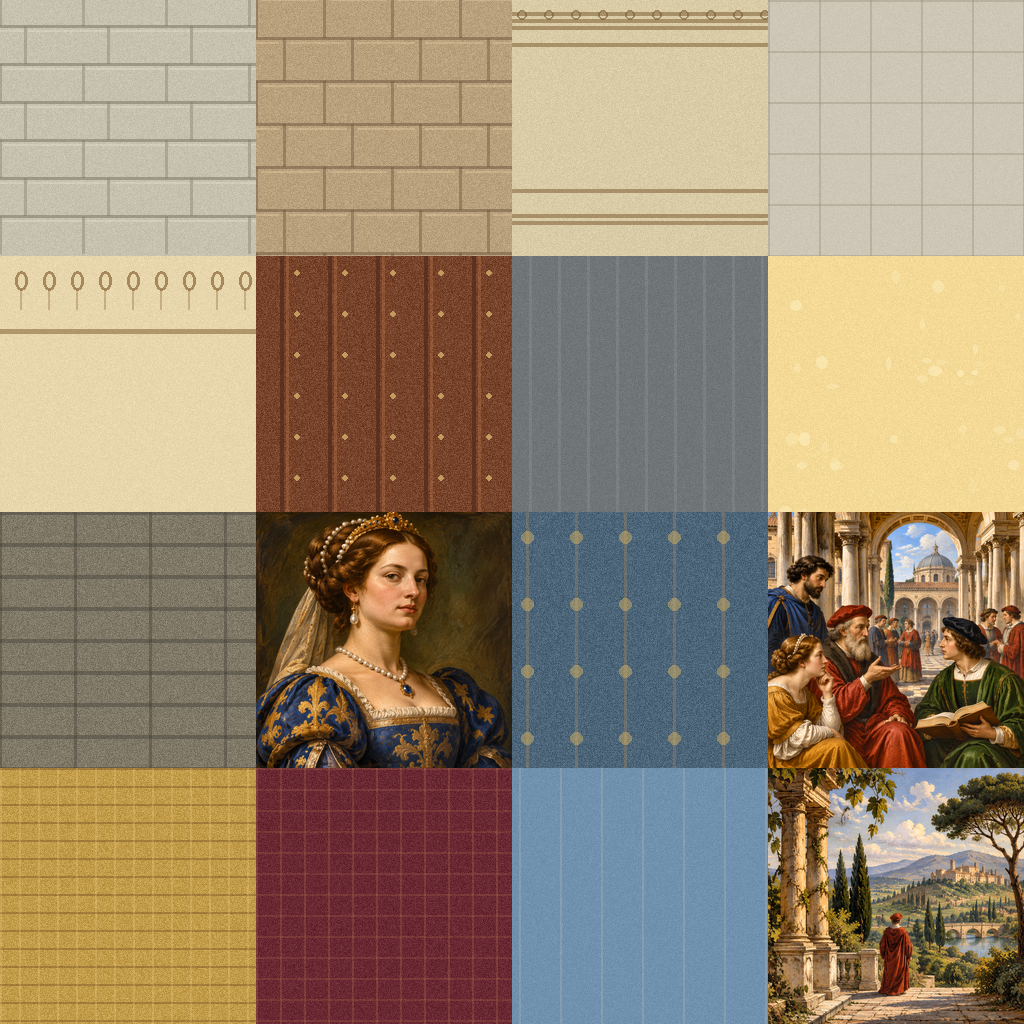
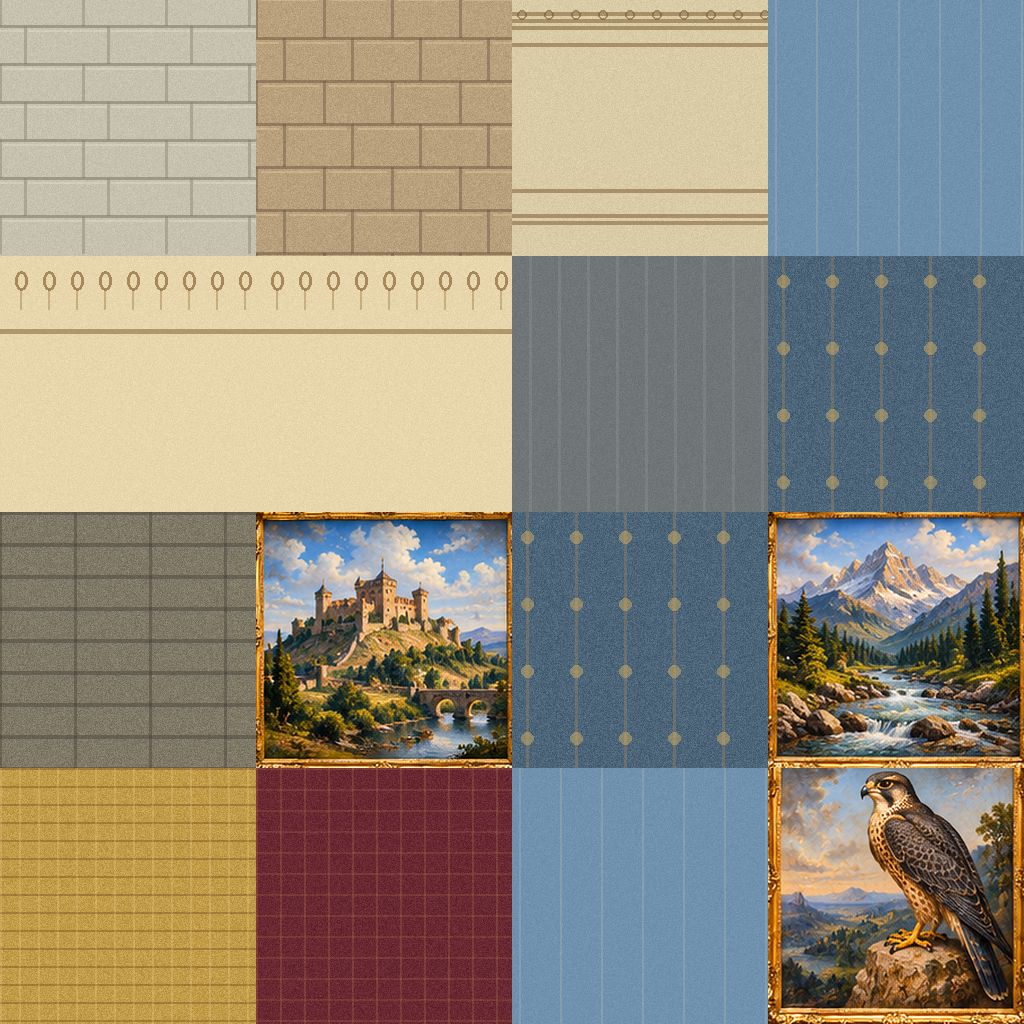
Add files via upload

diff --git a/maze-escape/assets/3d/maze3d.js b/maze-escape/assets/3d/maze3d.js
@@ -41,12 +41,21 @@ void main(){vec3 pos=aPosition;pos.xz*=uScale;vec3 relative=pos-uEye;
 }`;
 const FS=`precision mediump float;
 varying vec2 vUV;varying float vMaterial;varying vec3 vNormal;varying vec3 vTint;varying float vEmit;varying float vDistance;varying vec3 vWorld;
-uniform sampler2D uAtlas;uniform vec3 uFog;uniform float uTime;uniform float uFogStart;uniform float uFogEnd;uniform float uSchool;uniform float uJungle;uniform float uCastle;
+uniform sampler2D uAtlas;uniform sampler2D uPaintAtlas;uniform vec3 uFog;uniform float uTime;uniform float uFogStart;uniform float uFogEnd;uniform float uSchool;uniform float uJungle;uniform float uCastle;
 void main(){float m=floor(vMaterial+.5);
  float col=mod(m,4.);float row=3.-floor(m/4.);
  vec2 tileUV=clamp(vUV,.008,.992);
  vec2 texUV=(vec2(col,row)+tileUV)/4.;
+ // Painting IDs are unique 0-24 and mapped to a dedicated 8x4 Renaissance artwork atlas.
+ // They are not recycled from the three shared castle material tiles.
  vec3 tex=texture2D(uAtlas,texUV).rgb;
+ if(m>=16.0){
+    float picture=m-16.0;
+    float pictureCol=mod(picture,8.0);
+    float pictureRow=3.0-floor(picture/8.0);
+    vec2 pictureUV=(vec2(pictureCol,pictureRow)+tileUV)/vec2(8.0,4.0);
+    tex=texture2D(uPaintAtlas,pictureUV).rgb;
+ }
  vec3 n=normalize(vNormal);
  vec3 dir=normalize(vec3(-.56,.81,.38));
  float face=mix(.68+.27*max(0.,dot(n,dir)),.64+.36*max(0.,dot(n,dir)),step(.5,uSchool));
@@ -141,17 +150,48 @@ class Renderer{
   if(!gl)throw new Error('WebGL unavailable');this.gl=gl;
   this.program=program(gl,VS,FS);this.skyProgram=program(gl,SKYVS,SKYFS);
   this.a={};for(const name of ['aPosition','aNormal','aUV','aMaterial','aTint','aEmit'])this.a[name]=gl.getAttribLocation(this.program,name);
-  this.u={};for(const name of ['uEye','uAngle','uAspect','uFocus','uBob','uPitch','uScale','uAtlas','uFog','uTime','uFogStart','uFogEnd','uSchool','uJungle','uCastle'])this.u[name]=gl.getUniformLocation(this.program,name);
+  this.u={};for(const name of ['uEye','uAngle','uAspect','uFocus','uBob','uPitch','uScale','uAtlas','uPaintAtlas','uFog','uTime','uFogStart','uFogEnd','uSchool','uJungle','uCastle'])this.u[name]=gl.getUniformLocation(this.program,name);
   this.skyA=gl.getAttribLocation(this.skyProgram,'aPosition');this.skyU={};for(const name of ['uTop','uHorizon','uTime','uSpace','uCastle'])this.skyU[name]=gl.getUniformLocation(this.skyProgram,name);
   this.skyBuffer=gl.createBuffer();gl.bindBuffer(gl.ARRAY_BUFFER,this.skyBuffer);gl.bufferData(gl.ARRAY_BUFFER,new Float32Array([-1,-1,1,-1,-1,1,-1,1,1,-1,1,1]),gl.STATIC_DRAW);
   this.staticMesh=null;this.dynamicBuffer=gl.createBuffer();this.dynamicCapacity=0;
   this.atlas=gl.createTexture();gl.bindTexture(gl.TEXTURE_2D,this.atlas);
   const fallback=new Uint8Array([160,185,194,255]);gl.texImage2D(gl.TEXTURE_2D,0,gl.RGBA,1,1,0,gl.RGBA,gl.UNSIGNED_BYTE,fallback);
   gl.texParameteri(gl.TEXTURE_2D,gl.TEXTURE_MIN_FILTER,gl.LINEAR);gl.texParameteri(gl.TEXTURE_2D,gl.TEXTURE_MAG_FILTER,gl.LINEAR);gl.texParameteri(gl.TEXTURE_2D,gl.TEXTURE_WRAP_S,gl.CLAMP_TO_EDGE);gl.texParameteri(gl.TEXTURE_2D,gl.TEXTURE_WRAP_T,gl.CLAMP_TO_EDGE);
+  // Second POT atlas stores 25 distinct detailed paintings (256px each).
+  // It is loaded only when the Castle world is selected.
+  this.paintAtlas=gl.createTexture();this.paintAtlasRequested=false;this.paintAtlasReady=false;
+  gl.activeTexture(gl.TEXTURE1);gl.bindTexture(gl.TEXTURE_2D,this.paintAtlas);
+  gl.texImage2D(gl.TEXTURE_2D,0,gl.RGBA,1,1,0,gl.RGBA,gl.UNSIGNED_BYTE,new Uint8Array([94,79,61,255]));
+  gl.texParameteri(gl.TEXTURE_2D,gl.TEXTURE_MIN_FILTER,gl.LINEAR);
+  gl.texParameteri(gl.TEXTURE_2D,gl.TEXTURE_MAG_FILTER,gl.LINEAR);
+  gl.texParameteri(gl.TEXTURE_2D,gl.TEXTURE_WRAP_S,gl.CLAMP_TO_EDGE);
+  gl.texParameteri(gl.TEXTURE_2D,gl.TEXTURE_WRAP_T,gl.CLAMP_TO_EDGE);
+  gl.activeTexture(gl.TEXTURE0);
   gl.enable(gl.DEPTH_TEST);gl.depthFunc(gl.LEQUAL);gl.disable(gl.CULL_FACE);
   this.ready=true;
   this.canvas.addEventListener('webglcontextlost',e=>{e.preventDefault();this.ready=false;document.body.classList.remove('maze-webgl-active')});
   this.rebuild();
+ }
+ loadPaintingAtlas(){
+  if(this.paintAtlasRequested)return;
+  this.paintAtlasRequested=true;
+  const image=new Image();
+  image.onload=()=>{
+   if(!this.ready)return;
+   try{
+    const gl=this.gl;
+    gl.activeTexture(gl.TEXTURE1);gl.bindTexture(gl.TEXTURE_2D,this.paintAtlas);
+    gl.pixelStorei(gl.UNPACK_FLIP_Y_WEBGL,true);
+    gl.texImage2D(gl.TEXTURE_2D,0,gl.RGB,gl.RGB,gl.UNSIGNED_BYTE,image);
+    gl.texParameteri(gl.TEXTURE_2D,gl.TEXTURE_MIN_FILTER,gl.LINEAR_MIPMAP_LINEAR);
+    gl.texParameteri(gl.TEXTURE_2D,gl.TEXTURE_MAG_FILTER,gl.LINEAR);
+    gl.generateMipmap(gl.TEXTURE_2D);
+    gl.activeTexture(gl.TEXTURE0);
+    this.paintAtlasReady=true;
+   }catch(err){console.warn('Castle artwork atlas failed to upload:',err);}
+  };
+  image.onerror=()=>console.warn('Castle artwork atlas could not load');
+  image.src=(window.__mazePaintingAtlas||'assets/3d/castle_paintings.png');
  }
  loadTexture(theme){
   if(this.themeName===theme)return;this.themeName=theme;
@@ -172,11 +212,55 @@ class Renderer{
   const s=this.getState();if(!s||!s.maze||!s.maze.length)return;
   const theme=s.theme||'jungle';const t=THEMES[theme]||THEMES.jungle;
   this.loadTexture(theme);
+  if(theme==='castle')this.loadPaintingAtlas();
   const maze=s.maze,H=maze.length,wallH=theme==='castle'?3.65:theme==='jungle'?2.16:theme==='school'?2.46:2.12;
   this.wallHeight=wallH;this.size=H;this.smoothUnlock=s.unlocked?1:0;
   const m=new Mesh(),rand=seedRand(H*11471+theme.split('').reduce((n,c)=>n+c.charCodeAt(0),0));
-  if(theme==='castle')this.castleStats={walls:0,torches:0,paintings:0,statues:0,shields:0,swords:0,arches:0,banners:0,vaults:0};
+  if(theme==='castle')this.castleStats={walls:0,torches:0,paintings:0,statues:0,shields:0,swords:0,arches:0,banners:0,vaults:0,paintingIds:[],paintingLocations:[]};
   if(theme==='jungle')this.jungleStats={wallFaces:0,arches:0,carvings:0,foliage:0,stonePiers:0,canopies:0,blossoms:0,plants:{fern:0,banana:0,palm:0,monstera:0,bamboo:0,flowers:0},floating:0,zones:{canopy:0,bamboo:0,palm:0,ferns:0,flowers:0},zoneLabels:['Canopy Forest','Bamboo Trail','Palm Grove','Fern Gully','Flower Glade']};
+  // Prepare one shuffled deck of 25 detailed artworks for THIS maze layout.
+  // Each painting consumes one card and no card is returned to the deck.
+  // Rebuilding the same level (e.g. opening its exit) produces the same order.
+  if(theme==='castle'){
+    let visualSeed=0x419CC2 ^ H;
+    for(let rr=0;rr<H;rr++)for(let cc=0;cc<H;cc++)
+      visualSeed=(Math.imul(visualSeed ^ (maze[rr][cc]+1),16777619))>>>0;
+    const artRand=seedRand(visualSeed);
+    this.castleArtworkOrder=Array.from({length:25},(_,i)=>i);
+    for(let i=24;i>0;i--){const j=Math.floor(artRand()*(i+1));
+      [this.castleArtworkOrder[i],this.castleArtworkOrder[j]]=[this.castleArtworkOrder[j],this.castleArtworkOrder[i]];
+    }
+    this.castleArtworkCursor=0;
+    // Select visibly spaced paintings before generating any wall decorations.
+    // Every map has fewer than 25 paintings, all different; larger maps have more.
+    const candidates=[];
+    for(let rr=0;rr<H;rr++)for(let cc=0;cc<H;cc++){
+      if(maze[rr][cc]!==1||(rr===s.exitR&&cc===s.exitC))continue;
+      if(rr>0&&maze[rr-1][cc]===0)candidates.push({r:rr,c:cc,side:'n',j:artRand()});
+      if(rr<H-1&&maze[rr+1][cc]===0)candidates.push({r:rr,c:cc,side:'s',j:artRand()});
+      if(cc>0&&maze[rr][cc-1]===0)candidates.push({r:rr,c:cc,side:'w',j:artRand()});
+      if(cc<H-1&&maze[rr][cc+1]===0)candidates.push({r:rr,c:cc,side:'e',j:artRand()});
+    }
+    const target=Math.min(H<=17?16:H<=25?21:25,candidates.length);
+    const chosen=[],usedCells=new Set();
+    this.castleArtSelected=new Set();
+    for(let n=0;n<target;n++){
+      let winner=null,best=-1;
+      for(const face of candidates){
+        const key=face.r+','+face.c+','+face.side;
+        if(usedCells.has(face.r+','+face.c)||this.castleArtSelected.has(key))continue;
+        const minimum=chosen.length?Math.min(...chosen.map(p=>(p.r-face.r)**2+(p.c-face.c)**2)):H*H;
+        // Deliberately scatter artwork through the entire maze; avoid repetitive galleries.
+        const score=minimum+face.j*(chosen.length?1.35:1000);
+        if(score>best){best=score;winner=face;}
+      }
+      if(!winner)break;
+      chosen.push(winner);
+      usedCells.add(winner.r+','+winner.c);
+      this.castleArtSelected.add(winner.r+','+winner.c+','+winner.side);
+    }
+    this.castlePaintingTarget=this.castleArtSelected.size;
+  }
   const open=(r,c)=>r>=0&&c>=0&&r<H&&c<H&&maze[r][c]===0;
   const nearWall=(r,c)=>!open(r-1,c)||!open(r+1,c)||!open(r,c-1)||!open(r,c+1);
   // An exterior environment is real 3D geometry, not a flat image behind the door.
@@ -240,7 +324,16 @@ class Renderer{
       // Keep the largest mazes comfortable on school computers.
       // The marble architecture remains on all walls; ornate props use a
       // size-aware density so Hard does not draw hundreds of extra busts.
-      if(rand()<(H>=33?.45:H>=25?.76:1.0))this.castleWallFace(m,f,wallH,rand,chance);
+      const faceId=r+','+c+','+f.side;
+      if(this.castleArtSelected.has(faceId)){
+        // Only the chosen locations receive real artwork; each painting is used once.
+        const uniqueId=this.castleArtworkOrder[this.castleArtworkCursor++];
+        this.castleFramedArt(m,f,uniqueId,rand);
+        this.castleStats.paintings++;
+        this.castleStats.paintingIds.push(uniqueId);
+        const normal=({n:[0,-1],s:[0,1],w:[-1,0],e:[1,0]})[f.side];
+        this.castleStats.paintingLocations.push({id:uniqueId,x:(f.a[0]+f.b[0])*.5,z:(f.a[2]+f.b[2])*.5,nx:normal[0],nz:normal[1]});
+      }else if(rand()<(H>=33?.45:H>=25?.76:1.0))this.castleWallFace(m,f,wallH,rand,chance);
       this.castleStats.walls++;
     }else if(chance<.28)this.wallDecoration(m,f,theme,wallH,rand);
    }
@@ -935,7 +1028,9 @@ castleWallFace(m,f,h,rand,chance){
  if(chance<.25){
   this.castleTorch(m,f,.50,2.14,rand);this.castleStats.torches++;
  }else if(chance<.46){
-  this.castleFramedArt(m,f,1+Math.floor(rand()*3),rand);this.castleStats.paintings++;
+  // This wall was not selected for one of the unique painting positions.
+  // Display castle heraldry rather than repeat an existing painting.
+  this.castleBanner(m,f,rand);this.castleStats.banners++;
  }else if(chance<.64){
   this.castleArmourDisplay(m,f,rand);this.castleStats.shields++;this.castleStats.swords+=2;
  }else if(chance<.78){
@@ -967,11 +1062,11 @@ castleTorch(m,f,u,y,rand){
  // A warm little wall halo is a real geometry quad rather than a glow image.
  m.quad(P(u-.23,y-.20,.015),P(u+.23,y-.20,.015),P(u+.23,y+.40,.015),P(u-.23,y+.40,.015),7,[.22,.12,.045],.16);
 }
-castleFramedArt(m,f,kind,rand){
+castleFramedArt(m,f,uniqueId,rand){
  const b=(...a)=>this.castleWallBox(m,f,...a);
  const P=(u,y,d)=>this.castlePoint(f,u,y,d);
- const mat=kind===1?9:kind===2?11:15;
- const y0=.91,y1=2.53,x0=.19,x1=.81;
+ const mat=16+uniqueId;
+ const y0=1.08,y1=2.16,x0=.11,x1=.89;
  // Deep carved gilt frame with a real inset painting surface.
  b(x0-.038,y0-.05,.034,x1+.038,y1+.05,.118,5,[.80,.69,.43]);
  b(x0-.024,y0-.034,.121,x1+.024,y1+.034,.150,12,[1.30,1.12,.67]);
@@ -1364,6 +1459,8 @@ makeCastleDoor(s,openness){
   gl.uniform1f(u.uTime,now*.001);gl.uniform1f(u.uSchool,s.theme==='school'?1:0);gl.uniform1f(u.uJungle,s.theme==='jungle'?1:0);gl.uniform1f(u.uCastle,s.theme==='castle'?1:0);gl.uniform3fv(u.uFog,t.fog);
   gl.uniform1f(u.uFogStart,s.theme==='castle'?20:s.theme==='space'?11:s.theme==='jungle'?17:13);gl.uniform1f(u.uFogEnd,s.theme==='castle'?48:s.theme==='school'?39:s.theme==='jungle'?36:31);
   gl.activeTexture(gl.TEXTURE0);gl.bindTexture(gl.TEXTURE_2D,this.atlas);gl.uniform1i(u.uAtlas,0);
+  gl.activeTexture(gl.TEXTURE1);gl.bindTexture(gl.TEXTURE_2D,this.paintAtlas);gl.uniform1i(u.uPaintAtlas,1);
+  gl.activeTexture(gl.TEXTURE0);
   if(this.staticMesh){this.bindMesh(this.staticMesh);gl.drawArrays(gl.TRIANGLES,0,this.staticMesh.count);}
   const elapsed=Math.min(.05,Math.max(0,(now-(this.lastTime||now))/1000));this.lastTime=now;
   this.smoothUnlock+=((s.unlocked?1:0)-this.smoothUnlock)*Math.min(1,elapsed*2.5);
